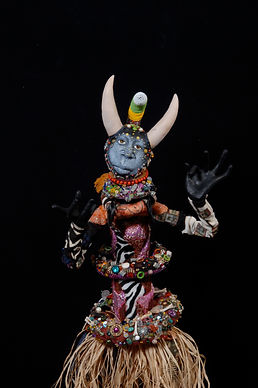
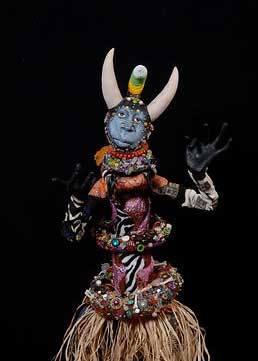
Fix Sculptures Page

Changed region(s): [[0.2171, 0.1219, 0.8992, 1.0], [0.186, 0.4875, 0.2171, 0.5485]]

diff --git a/src/components/SculpturesPage/index.jsx b/src/components/SculpturesPage/index.jsx
@@ -3,11 +3,11 @@
 import sculptures1 from "../../assets/work/sculptures/1.jpeg";
 import sculptures2 from "../../assets/work/sculptures/2.jpeg";
 import sculptures3 from "../../assets/work/sculptures/3.jpeg";
-import sculptures4 from "../../assets/work/sculptures/4.jpeg";
-import sculptures5 from "../../assets/work/sculptures/5.jpg";
-import sculptures6 from "../../assets/work/sculptures/6.jpg";
-import sculptures7 from "../../assets/work/sculptures/7.jpg";
-import sculptures8 from "../../assets/work/sculptures/8.jpg";
+import sculptures4 from "../../assets/work/sculptures/4.jpg";
+import sculptures5 from "../../assets/work/sculptures/5.jpeg";
+import sculptures6 from "../../assets/work/sculptures/6.jpeg";
+import sculptures7 from "../../assets/work/sculptures/7.jpeg";
+import sculptures8 from "../../assets/work/sculptures/8.jpeg";
 
 const SculpturesPage = () => {
   return (
@@ -17,7 +17,7 @@ const SculpturesPage = () => {
       </h1>
       <div className="grid grid-cols-2 md:grid-cols-3 max-w-7xl gap-2 pt-2 px-2 md:px-0 items-center mx-auto">
         <img
-          className="rounded-sm shadow-sm p-8 bg-white h-[250px] md:h-[400px]"
+          className="rounded-sm shadow-sm p-6 bg-white w-[250px] md:w-[400px]"
           src={sculptures1}
           alt=""
         />
@@ -31,47 +31,47 @@ const SculpturesPage = () => {
           have become more at ease with this medium.
         </p>
         <img
-          className="rounded-sm shadow-sm p-8 bg-white h-[250px] md:h-[400px]"
+          className="rounded-sm shadow-sm p-6 bg-white w-[250px] md:w-[400px]"
           src={sculptures2}
           alt=""
         />
         <img
-          className="rounded-sm shadow-sm p-8 bg-white h-[250px] md:h-[400px]"
+          className="rounded-sm shadow-sm p-6 bg-white w-[250px] md:w-[400px]"
           src={sculptures3}
           alt=""
         />
+        <p className="md:col-span-3 text-lg md:text-3xl font-lora text-center font-normal px-6 md:px-8 py-6 md:py-10 max-w-5xl mx-auto">
+          Remember that none of this is difficult. Often times people will plant
+          the seeds of{" "}
+          <span className="text-yellow-200 font-bold">
+            "you will never be able to do this"
+          </span>
+          , in your mind. Don't listen to them, move forward and just create.
+        </p>
       </div>
-      <p className="text-lg md:text-3xl font-lora text-center font-normal px-6 md:px-8 py-6 md:py-10 max-w-5xl mx-auto">
-        Remember that none of this is difficult. Often times people will plant
-        the seeds of{" "}
-        <span className="text-yellow-200 font-bold">
-          "you will never be able to do this"
-        </span>
-        , in your mind. Don't listen to them, move forward and just create.
-      </p>
-      <div className="grid grid-cols-2 md:grid-cols-4 lg:grid-cols-5 max-w-7xl gap-2 pt-2 px-2 md:px-0 md:py-8 items-center mx-auto justify-items-center">
+      <div className="grid grid-cols-2 md:grid-cols-4 lg:grid-cols-5 max-w-7xl gap-2 py-4 px-2 md:px-0 md:py-8 items-center mx-auto justify-items-center">
         <img
-          className="rounded-sm shadow-sm p-8 bg-white w-[164px]"
+          className="rounded-sm shadow-sm p-4 bg-white w-[164px]"
           src={sculptures4}
           alt=""
         />
         <img
-          className="rounded-sm shadow-sm p-8 bg-white w-[164px]"
+          className="rounded-sm shadow-sm p-4 bg-white w-[164px]"
           src={sculptures5}
           alt=""
         />
         <img
-          className="rounded-sm shadow-sm p-8 bg-white w-[164px]"
+          className="rounded-sm shadow-sm p-4 bg-white w-[164px]"
           src={sculptures6}
           alt=""
         />
         <img
-          className="rounded-sm shadow-sm p-8 bg-white w-[164px]"
+          className="rounded-sm shadow-sm p-4 bg-white w-[164px]"
           src={sculptures7}
           alt=""
         />
         <img
-          className="rounded-sm shadow-sm p-8 bg-white w-[164px] hidden lg:block"
+          className="rounded-sm shadow-sm p-4 bg-white w-[164px] hidden lg:block"
           src={sculptures8}
           alt=""
         />
